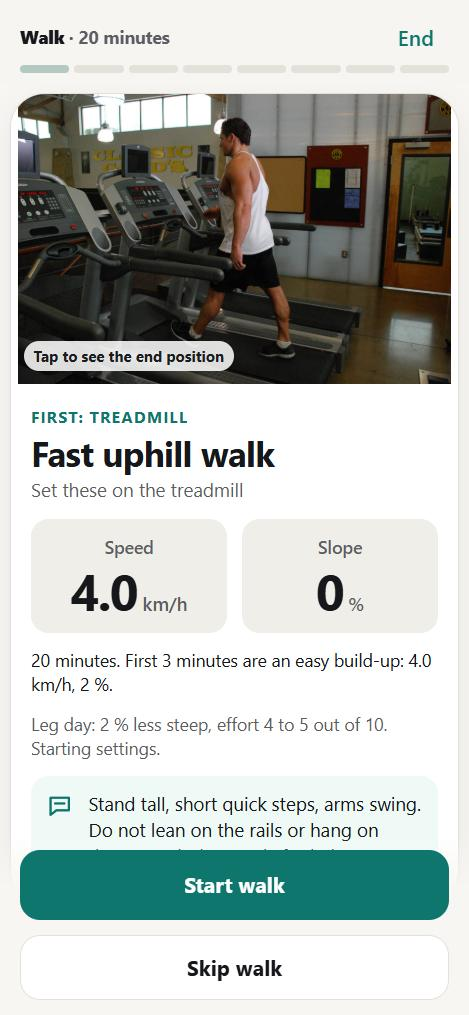
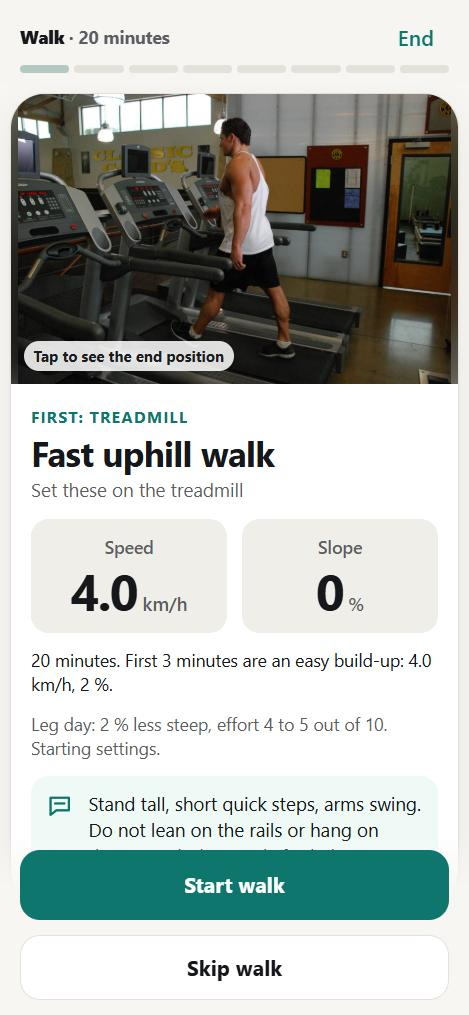
Redesign D: blurred photo side fill, walk and setup polish, swap skipped-walk wording, dark and light screenshots (40)

Changed region(s): [[0.0, 0.0916, 0.0597, 0.397], [0.9552, 0.0916, 0.9851, 0.397]]

diff --git a/redesign/d/app/css/app.css b/redesign/d/app/css/app.css
@@ -551,3 +551,8 @@ a.card:active { transform: scale(0.99); }
 .card-row:has(> .ico-box) { align-items: flex-start; margin-bottom: var(--s3); }
 .card-row > .grow > h2:first-child { margin-top: 2px; }
 .progress-top .text-button { font-size: 32px; line-height: 1; min-width: 44px; min-height: 44px; padding: 0; justify-content: flex-start; }
+
+/* the side bands of a photo show a soft blurred copy of the same photo (same file, no extra download) */
+.demo img.fill { object-fit: cover; filter: blur(18px) brightness(0.8) saturate(1.1); transform: scale(1.2); }
+.rest-head .tag, .rest-head .phase-pill { margin-top: var(--s2); }
+.row:has(> .field) { align-items: flex-end; }

diff --git a/redesign/d/app/js/ui/warmup.js b/redesign/d/app/js/ui/warmup.js
@@ -13,7 +13,7 @@ export function renderChangeover(ctx) {
     guideScreen("changeover",
       guideTop(ctx, [h("b", {}, "Change-over"), " · water and towel"], () => askEnd(ctx)),
       h("div", { class: "rest-head" },
-        h("span", { class: "eyebrow brand" }, "Nice walk"),
+        h("span", { class: "eyebrow brand" }, session.walk ? "Nice walk" : "Walk skipped"),
         h("h1", {}, "Change-over"),
         h("p", { class: "muted" }, "Drink water, dry off, walk to the weights. Let your heart rate settle.")),
       timerView({ end: act.timer_end, total: act.timer_total, sub: "left" }),

diff --git a/redesign/d/app/js/ui/demo.js b/redesign/d/app/js/ui/demo.js
@@ -30,6 +30,7 @@ export function demo(id, { label = true, cls = "" } = {}) {
   let el;
   if (pics) {
     el = h("div", { class: `demo ${cls}`, role: "img", "aria-label": `${name}: start and end position` },
+      h("img", { src: pics[0], alt: "", class: "fill", decoding: "async" }),
       h("img", { src: pics[0], alt: "", decoding: "async" }),
       h("img", { src: pics[1], alt: "", class: "b", decoding: "async" }));
   } else if (id === "hip_hinge") {
